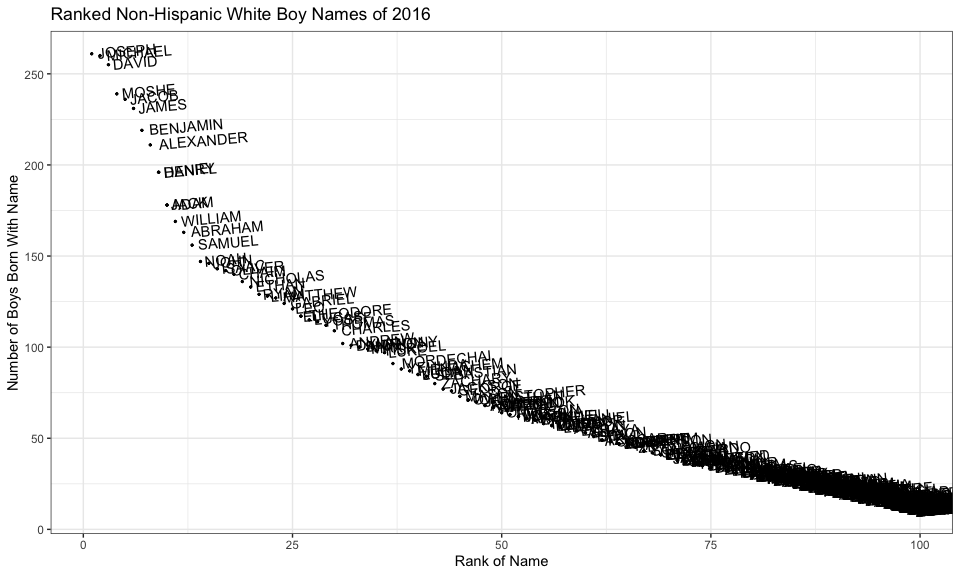
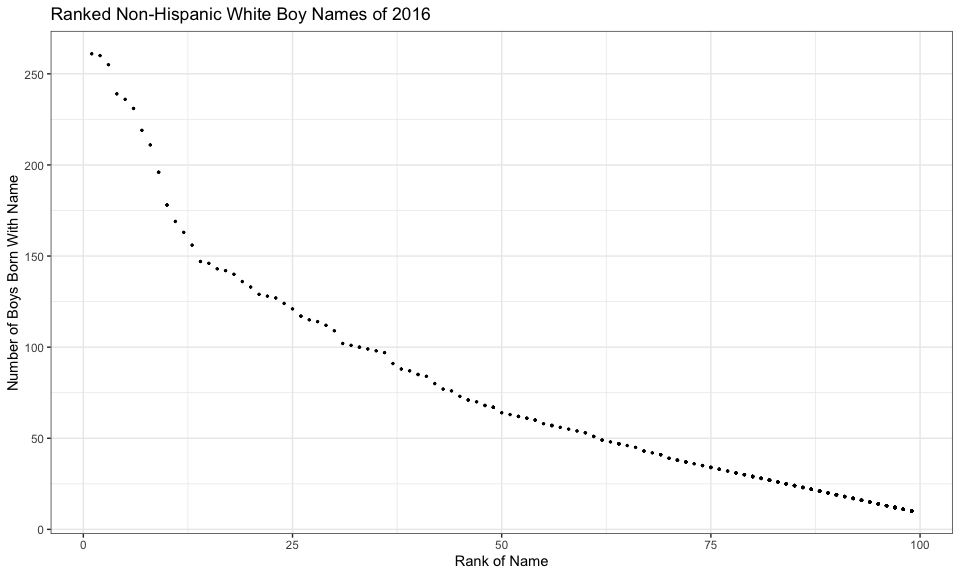
Cleaned and finished problems

Changed region(s): [[0.1562, 0.3438, 1.0, 0.9062], [0.0938, 0.0625, 0.25, 0.3125]]

diff --git a/p8105_hw2_ah3108.md b/p8105_hw2_ah3108.md
@@ -182,21 +182,26 @@ head(all_538_df)
 
 The *pols-month* data gives the number of senators and congress
 representatives in the Democratic and Republican parties, as well as the
-party of the president each month from January, 1947 to February, 2015.
+party of the president each month from January, 1947 to February, 2015,
+(N = 822, 9 variables).
 
 The *snp* data gives the closing Standard & Poors market index per date
-of observation (N = 787). After editing the data we have an SNP closing
-market index for the month and year from April, 1950 to May, 2015.
+of observation (N = 787, 3 variables). After editing the data we have an
+SNP closing market index for the month and year from April, 1950 to May,
+2015.
 
 The *unemployment* data gives the monthly percent of unemployment in the
-United States from April, 1948 to March, 2015.
+United States from April, 1948 to March, 2015, (N = 810, 3 variables).
 
-Given the order in whic they are combined we lose data from xx and have
-NA data in YY.
-
-Write a short paragraph about these datasets. Explain briefly what each
-dataset contained, and describe the resulting dataset (e.g. give the
-dimension, range of years, and names of key variables).
+Given the order in which the three data sets are comibined into
+*all\_538\_df*, values from the variables in *snps* and *unemployment*
+data, “snp\_close” and “unemployment” lost entries after February, 2015.
+Missing values (NA) appear in “snp\_close” from January, 1947 toApril,
+1950, and in “unemployment” from January, 1947 to April, 1948. The
+number of observations in the variables from *pols\_df* stays is
+maintained (N = 822, 11 variables). Lastly, as we the variables used to
+join were “month” and “year”, we only have one set of each even though
+all three data sets had these variables.
 
 # Problem 3
 
@@ -757,7 +762,6 @@ wboy_2016 = filter(bn_df, gender == "MALE" & year == 2016 & ethnicity == "WHITE_
 wboy_2016 %>% 
   ggplot() +
   geom_point(aes(x = rank, y = count), size  = 0.5) +
-  geom_text(aes(rank, count, label = childs_first_name, angle = 5, hjust = -.1)) +
   theme_bw() +
   scale_y_continuous(breaks = seq(0, 300, 50)) +
   scale_color_viridis_c() +
@@ -767,7 +771,3 @@ wboy_2016 %>%
 ```
 
 <img src="p8105_hw2_ah3108_files/figure-gfm/unnamed-chunk-10-1.png" width="90%" />
-
-``` r
-#childs_first_name
-```
